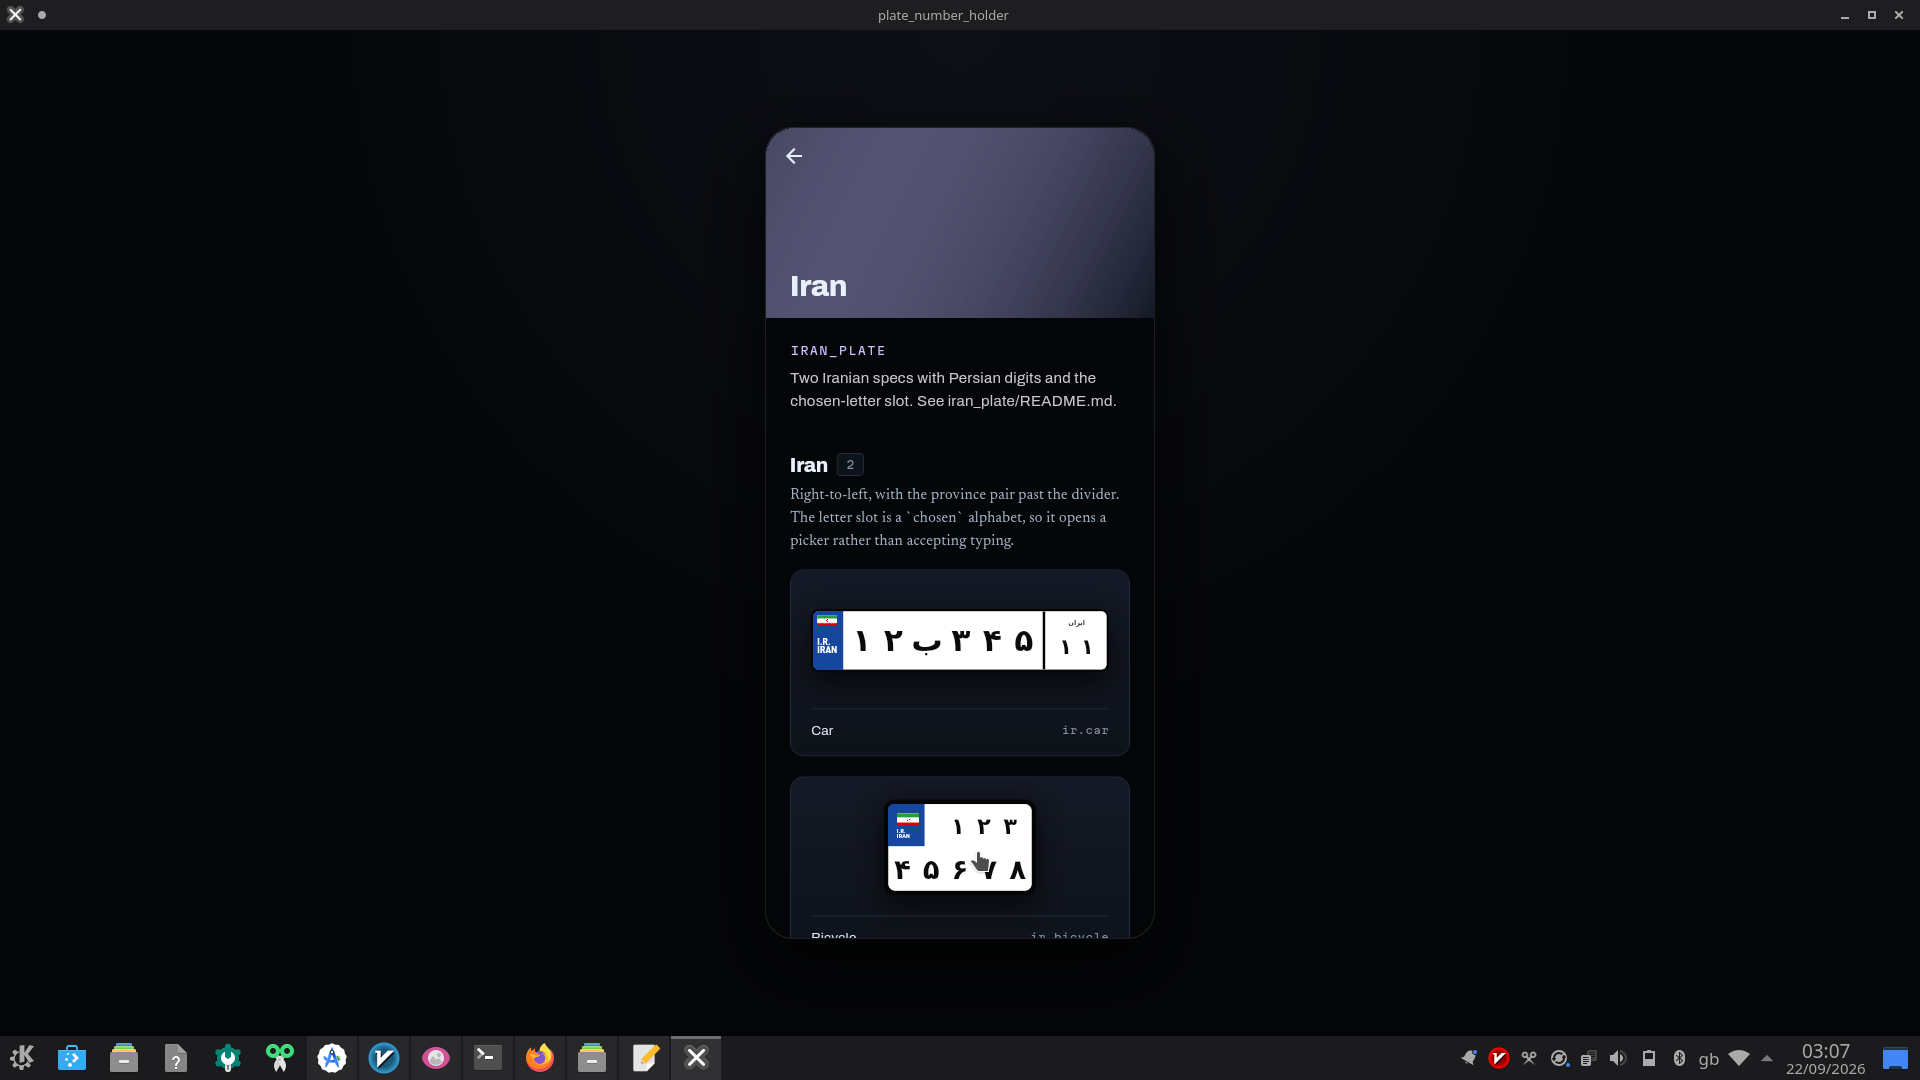
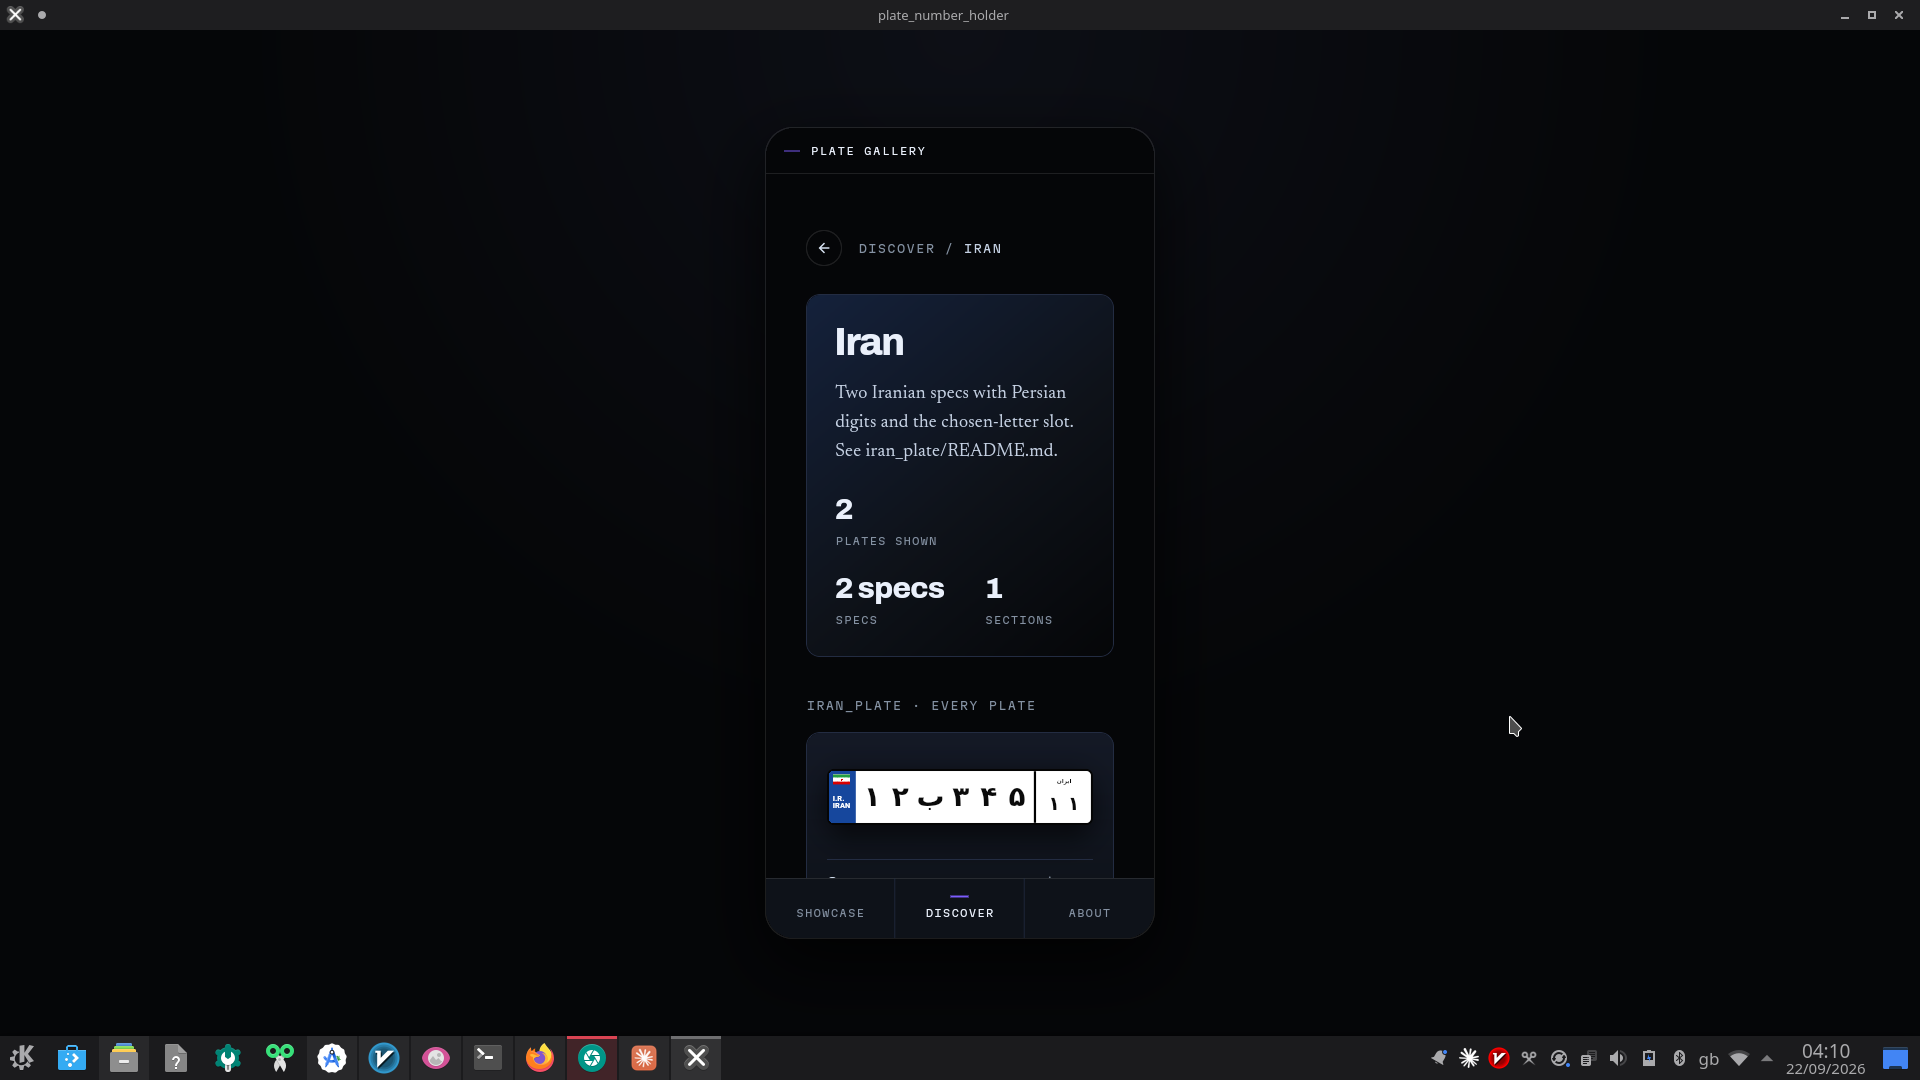
newdesign: sk19 country mobile

diff --git a/lib/screens/gallery_shell_screen.dart b/lib/screens/gallery_shell_screen.dart
@@ -108,10 +108,25 @@ class GalleryShellState extends State<GalleryShellScreen> {
     builder: (BuildContext context) => PlateDetailScreen(item: item, heroTag: heroTag),
   );
 
-  void _openCountry(GallerySource source) => _pushDiscover(
-    isPlateDetail: false,
-    builder: (BuildContext context) => CountryDetailScreen(source: source, onOpenPlate: _openPlate),
+  WidgetBuilder _countryBuilder(GallerySource source) => (BuildContext context) => CountryDetailScreen(
+    source: source,
+    onOpenPlate: _openPlate,
+    onOpenDiscover: _resetDiscover,
+    onSwitchCountry: _switchCountry,
   );
+
+  void _openCountry(GallerySource source) =>
+      _pushDiscover(isPlateDetail: false, builder: _countryBuilder(source));
+
+  /// `OTHER COUNTRIES` on the mobile country page: replaces the current
+  /// country page with another one, so the nested stack's depth never grows
+  /// and the back gesture still returns to Discover rather than unwinding
+  /// through every country visited along the way.
+  void _switchCountry(GallerySource source) {
+    final NavigatorState? navigator = _discoverNavigatorKey.currentState;
+    if (navigator == null) return;
+    navigator.pushReplacement<void, void>(PageRiseRoute<void>(builder: _countryBuilder(source)));
+  }
 
   /// Tapping the already-selected Discover destination returns to its index,
   /// the way tapping a selected tab does everywhere else. Tapping a *different*
